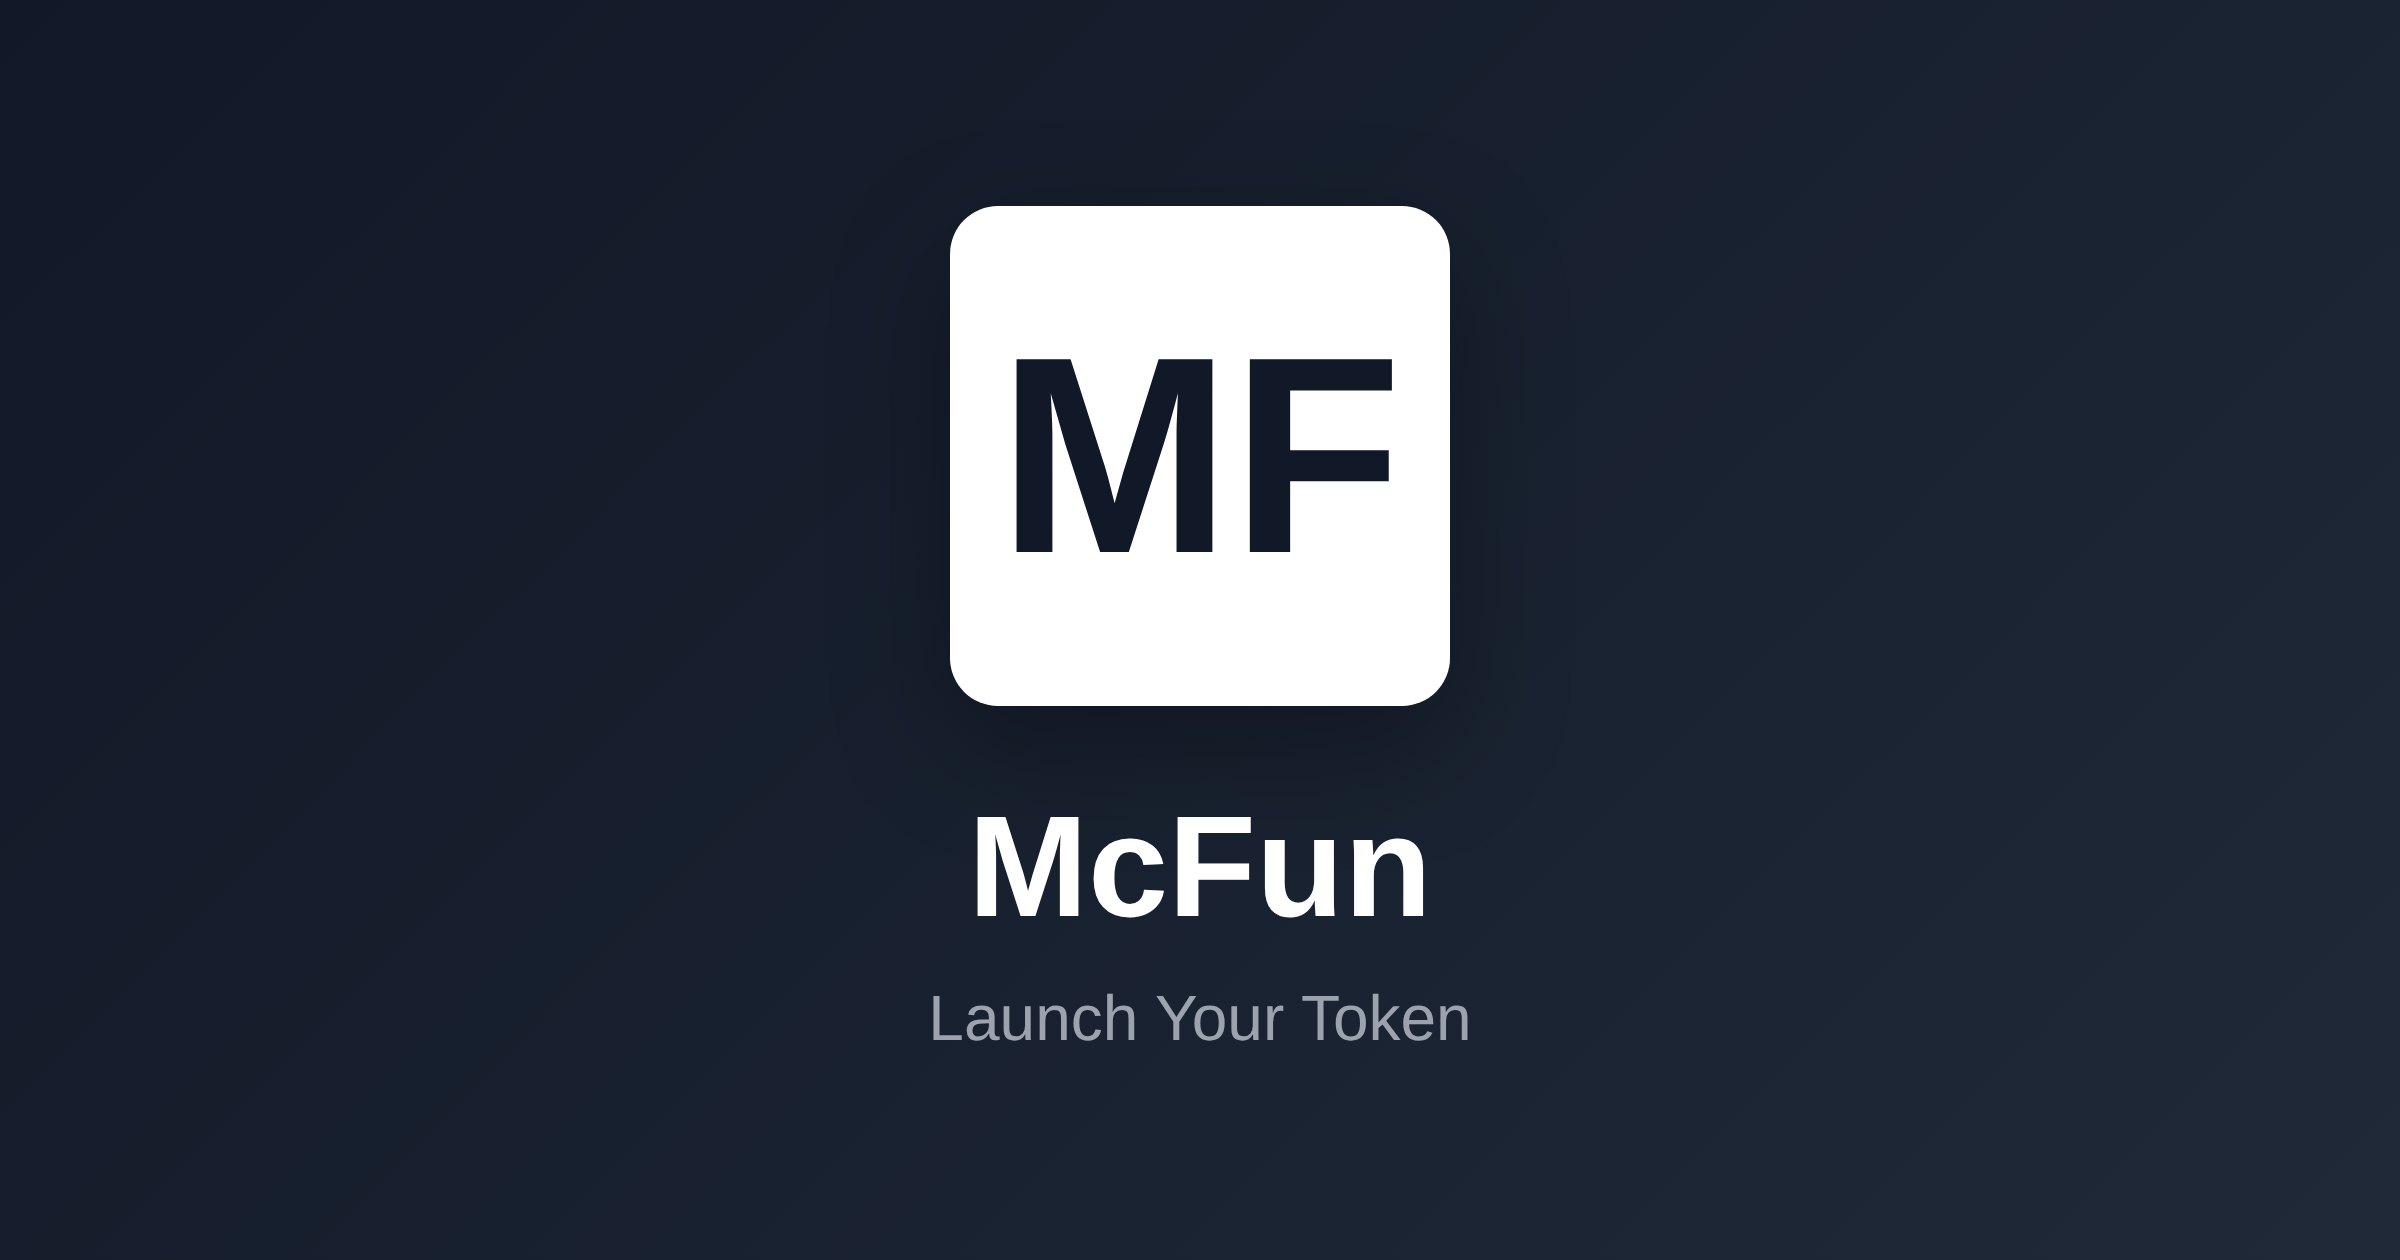
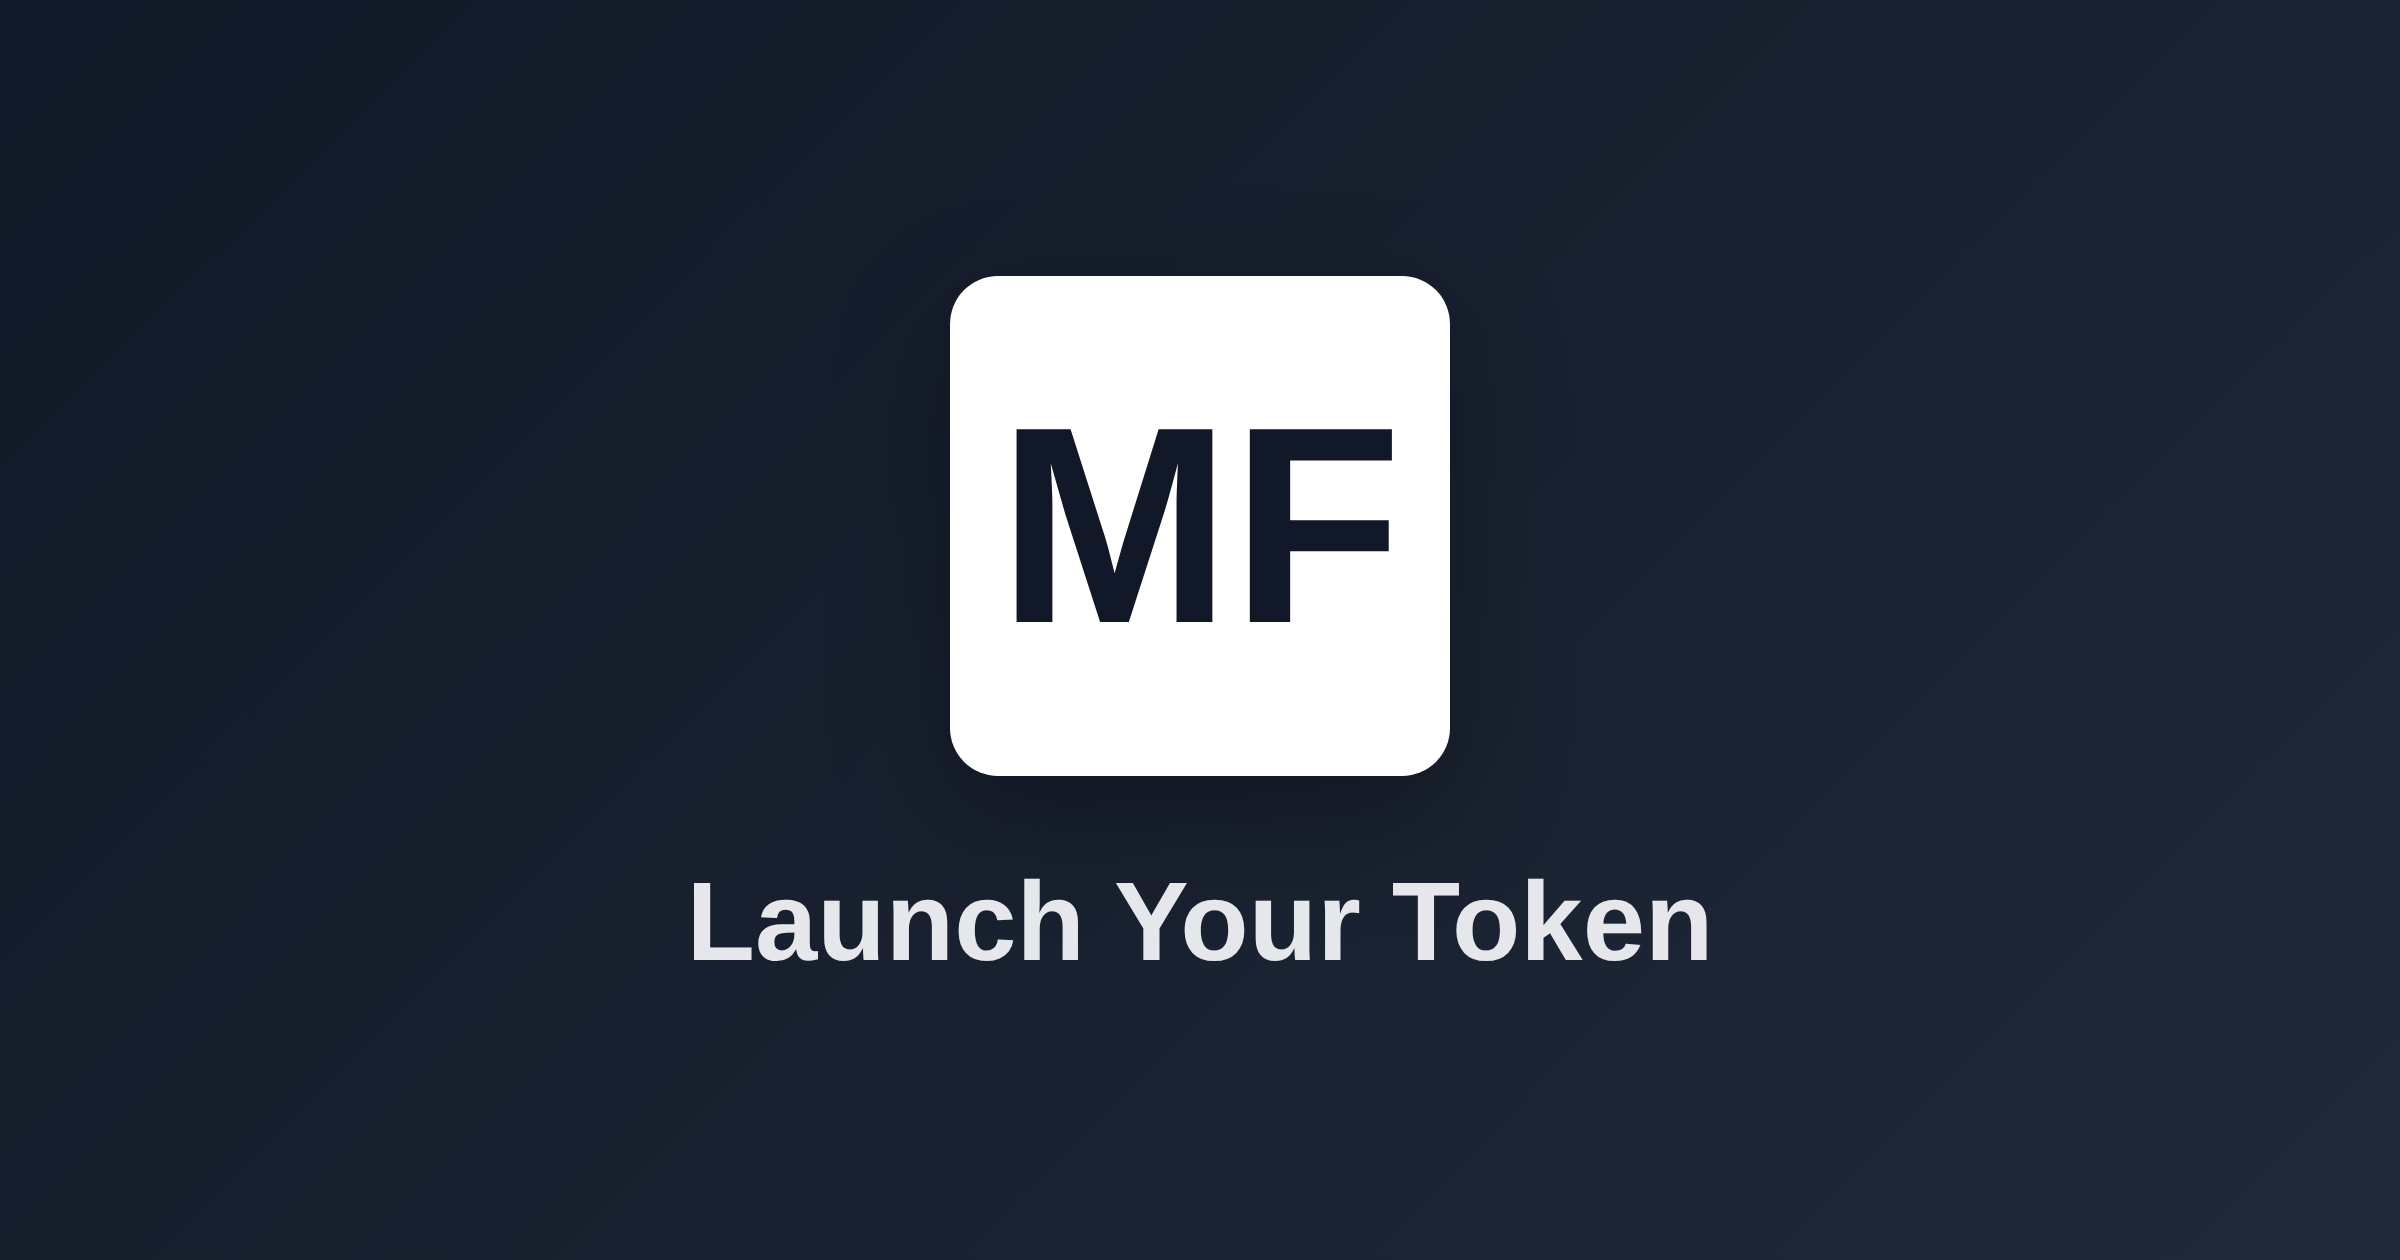
Updated generate-og-image.html

diff --git a/public/generate-og-image.html b/public/generate-og-image.html
@@ -37,15 +37,10 @@
       color: #111827;
       line-height: 1;
     }
-    .title {
-      font-size: 72px;
-      font-weight: bold;
-      color: white;
-      margin-bottom: 16px;
-    }
     .tagline {
-      font-size: 32px;
-      color: #9CA3AF;
+      font-size: 56px;
+      font-weight: 600;
+      color: #E5E7EB;
     }
   </style>
 </head>
@@ -54,7 +49,6 @@
     <div class="logo">
       <div class="logo-text">MF</div>
     </div>
-    <div class="title">McFun</div>
     <div class="tagline">Launch Your Token</div>
   </div>
 </body>
